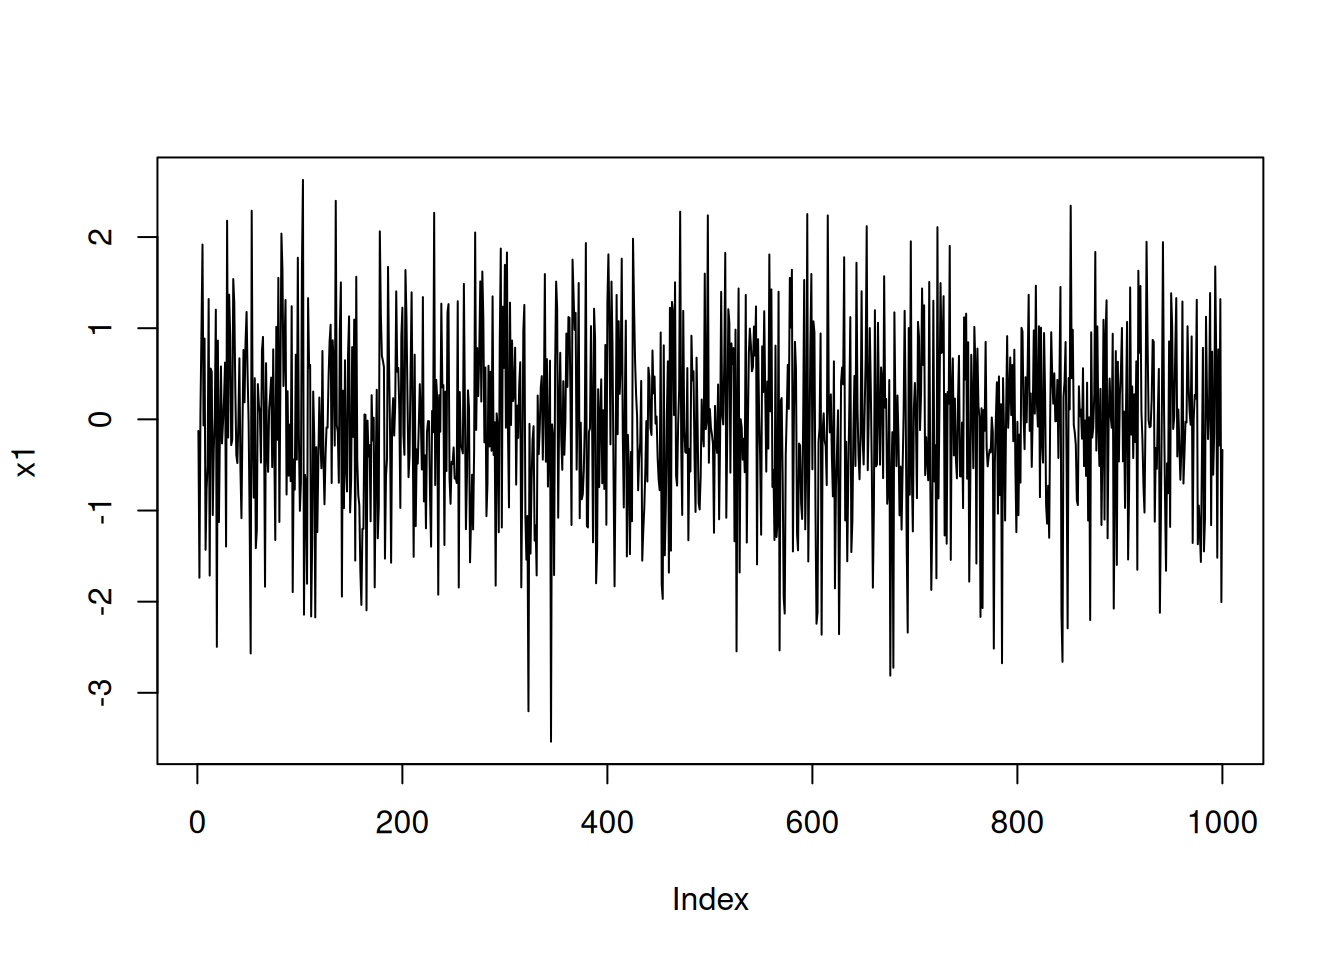
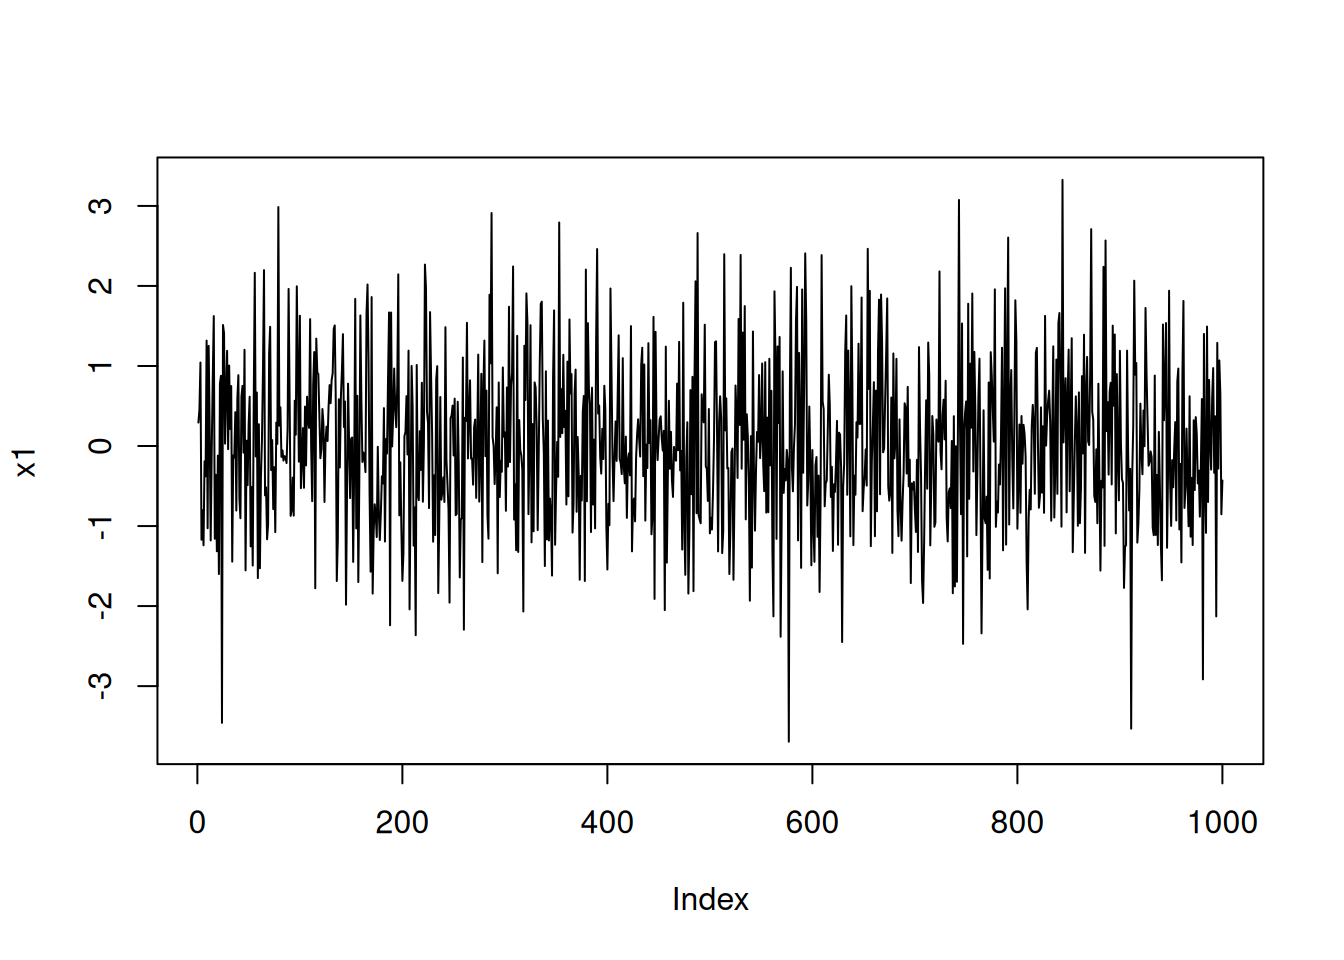
Deploying to gh-pages from @ bcubides-est/molde@e05c7ef41c322e2e1aa5de514a102f9fe60a7f1c 🚀

diff --git a/CONTENIDO/Capitulo_Ejemplo.html b/CONTENIDO/Capitulo_Ejemplo.html
@@ -509,19 +509,19 @@ pre > code.sourceCode > span > a:first-child::before { text-decoration: underlin
 <span id="cb13-7"><a href="#cb13-7" aria-hidden="true" tabindex="-1"></a></span>
 <span id="cb13-8"><a href="#cb13-8" aria-hidden="true" tabindex="-1"></a>media  </span></code><button title="Copy to Clipboard" class="code-copy-button"><i class="bi"></i></button></pre></div>
 <div class="cell-output cell-output-stdout">
-<pre><code>[1] -0.04529622</code></pre>
+<pre><code>[1] 0.02078064</code></pre>
 </div>
 <div class="sourceCode cell-code" id="cb15"><pre class="sourceCode r code-with-copy"><code class="sourceCode r"><span id="cb15-1"><a href="#cb15-1" aria-hidden="true" tabindex="-1"></a>varianza </span></code><button title="Copy to Clipboard" class="code-copy-button"><i class="bi"></i></button></pre></div>
 <div class="cell-output cell-output-stdout">
-<pre><code>[1] 0.9664275</code></pre>
+<pre><code>[1] 1.034488</code></pre>
 </div>
 <div class="sourceCode cell-code" id="cb17"><pre class="sourceCode r code-with-copy"><code class="sourceCode r"><span id="cb17-1"><a href="#cb17-1" aria-hidden="true" tabindex="-1"></a>sesgo  </span></code><button title="Copy to Clipboard" class="code-copy-button"><i class="bi"></i></button></pre></div>
 <div class="cell-output cell-output-stdout">
-<pre><code>[1] -0.1436204</code></pre>
+<pre><code>[1] 0.1219824</code></pre>
 </div>
 <div class="sourceCode cell-code" id="cb19"><pre class="sourceCode r code-with-copy"><code class="sourceCode r"><span id="cb19-1"><a href="#cb19-1" aria-hidden="true" tabindex="-1"></a>curtosis</span></code><button title="Copy to Clipboard" class="code-copy-button"><i class="bi"></i></button></pre></div>
 <div class="cell-output cell-output-stdout">
-<pre><code>[1] 2.978065</code></pre>
+<pre><code>[1] 3.184124</code></pre>
 </div>
 </div>
 
